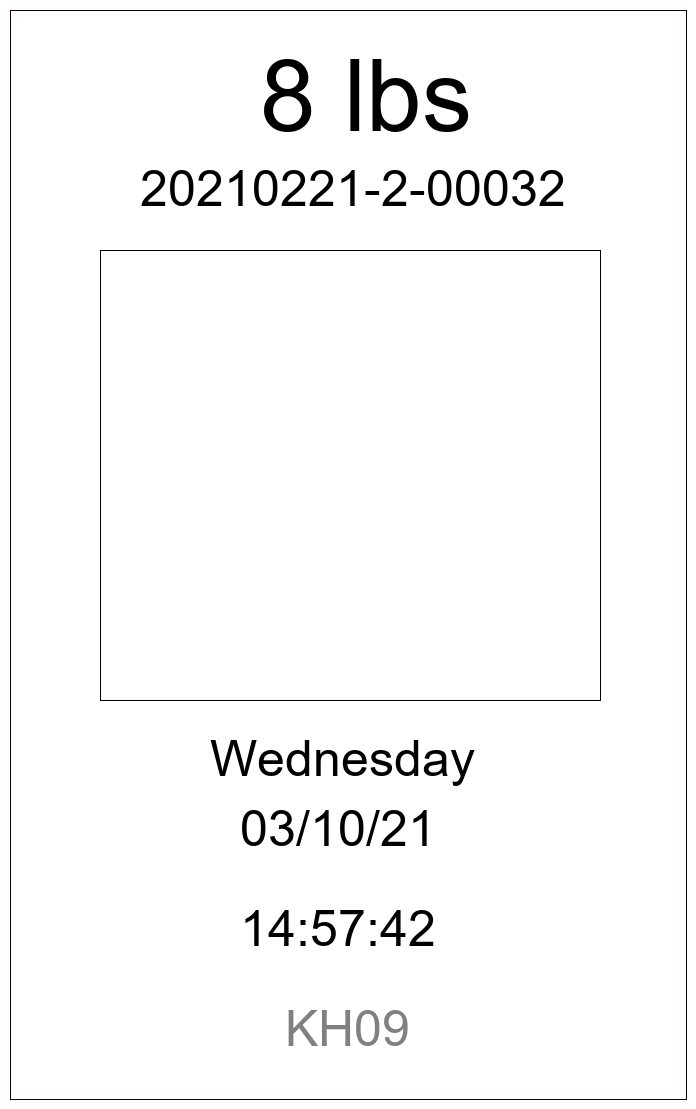
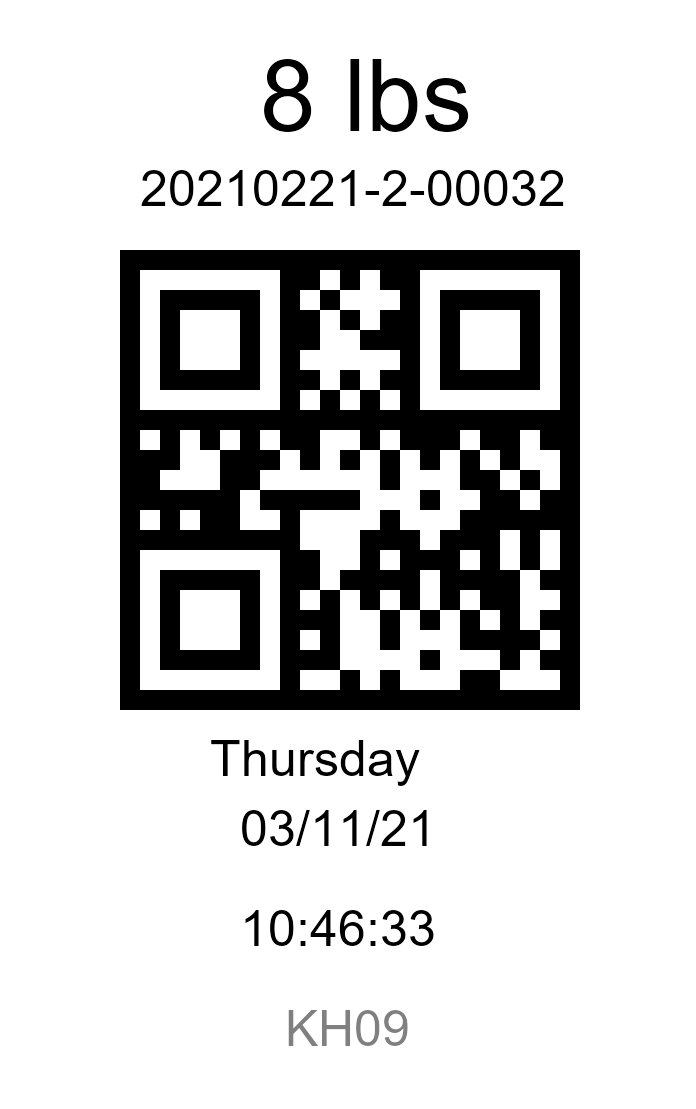
qr added
Se agrego el codigo qr a la etiqueta y se implemento la transparencia por medio de la vaiable "transparency"

Changed region(s): [[0.1509, 0.2146, 0.8448, 0.7051], [0.3621, 0.7971, 0.6336, 0.8584], [0.4828, 0.7358, 0.5431, 0.7665]]

diff --git a/Imaging/label.py b/Imaging/label.py
@@ -1,22 +1,30 @@
 from PIL import Image, ImageDraw, ImageFont
 import datetime
+import qrcode
 #######################################################################
 mach_id = "KH09"
 uniq_id = "20210221-2-00032"
 wgth = 8
+transparency = 128        #0 means 100% transparency, 255 means 0% transparency
 #######################################################################
 img = Image.new('RGB', (696, 1109), color='white')
 draw = ImageDraw.Draw(img)
+img.putalpha(transparency)
 draw.rectangle([10,10,686,1099],None,20)
 fnt = ImageFont.truetype('C:/Windows/Fonts/Arial.ttf', size=100)
 draw.text((260,40),str(wgth) + " lbs",fill='black' ,font=fnt)
 fnt = ImageFont.truetype('C:/Windows/Fonts/Arial.ttf', size=50)
 draw.text((140, 160), uniq_id, fill='black', font=fnt)
-draw.rectangle([100,250,600,700],None,3)
+#draw.rectangle([100,250,600,700],None,3)
 today = datetime.datetime.now()
 draw.text((210, 730), today.strftime("%A"), fill='black', font=fnt)
 draw.text((240, 800), today.strftime("%x"), fill='black', font=fnt)
 draw.text((240, 900), today.strftime("%X"), fill='black', font=fnt)
 draw.text((285, 1000), mach_id, fill='grey', font=fnt)
-
+#qr = qrcode.make("12 lb")
+qr = qrcode.QRCode(version=1, box_size=20, border=1)
+qr.add_data(str(wgth) + " lb")
+qr.make(fit= True)
+qr_bitmap = qr.make_image(fill_color='black', back_color='white')
+draw.bitmap((120,250),qr_bitmap, fill= 'black')
 img.save('label.png')
